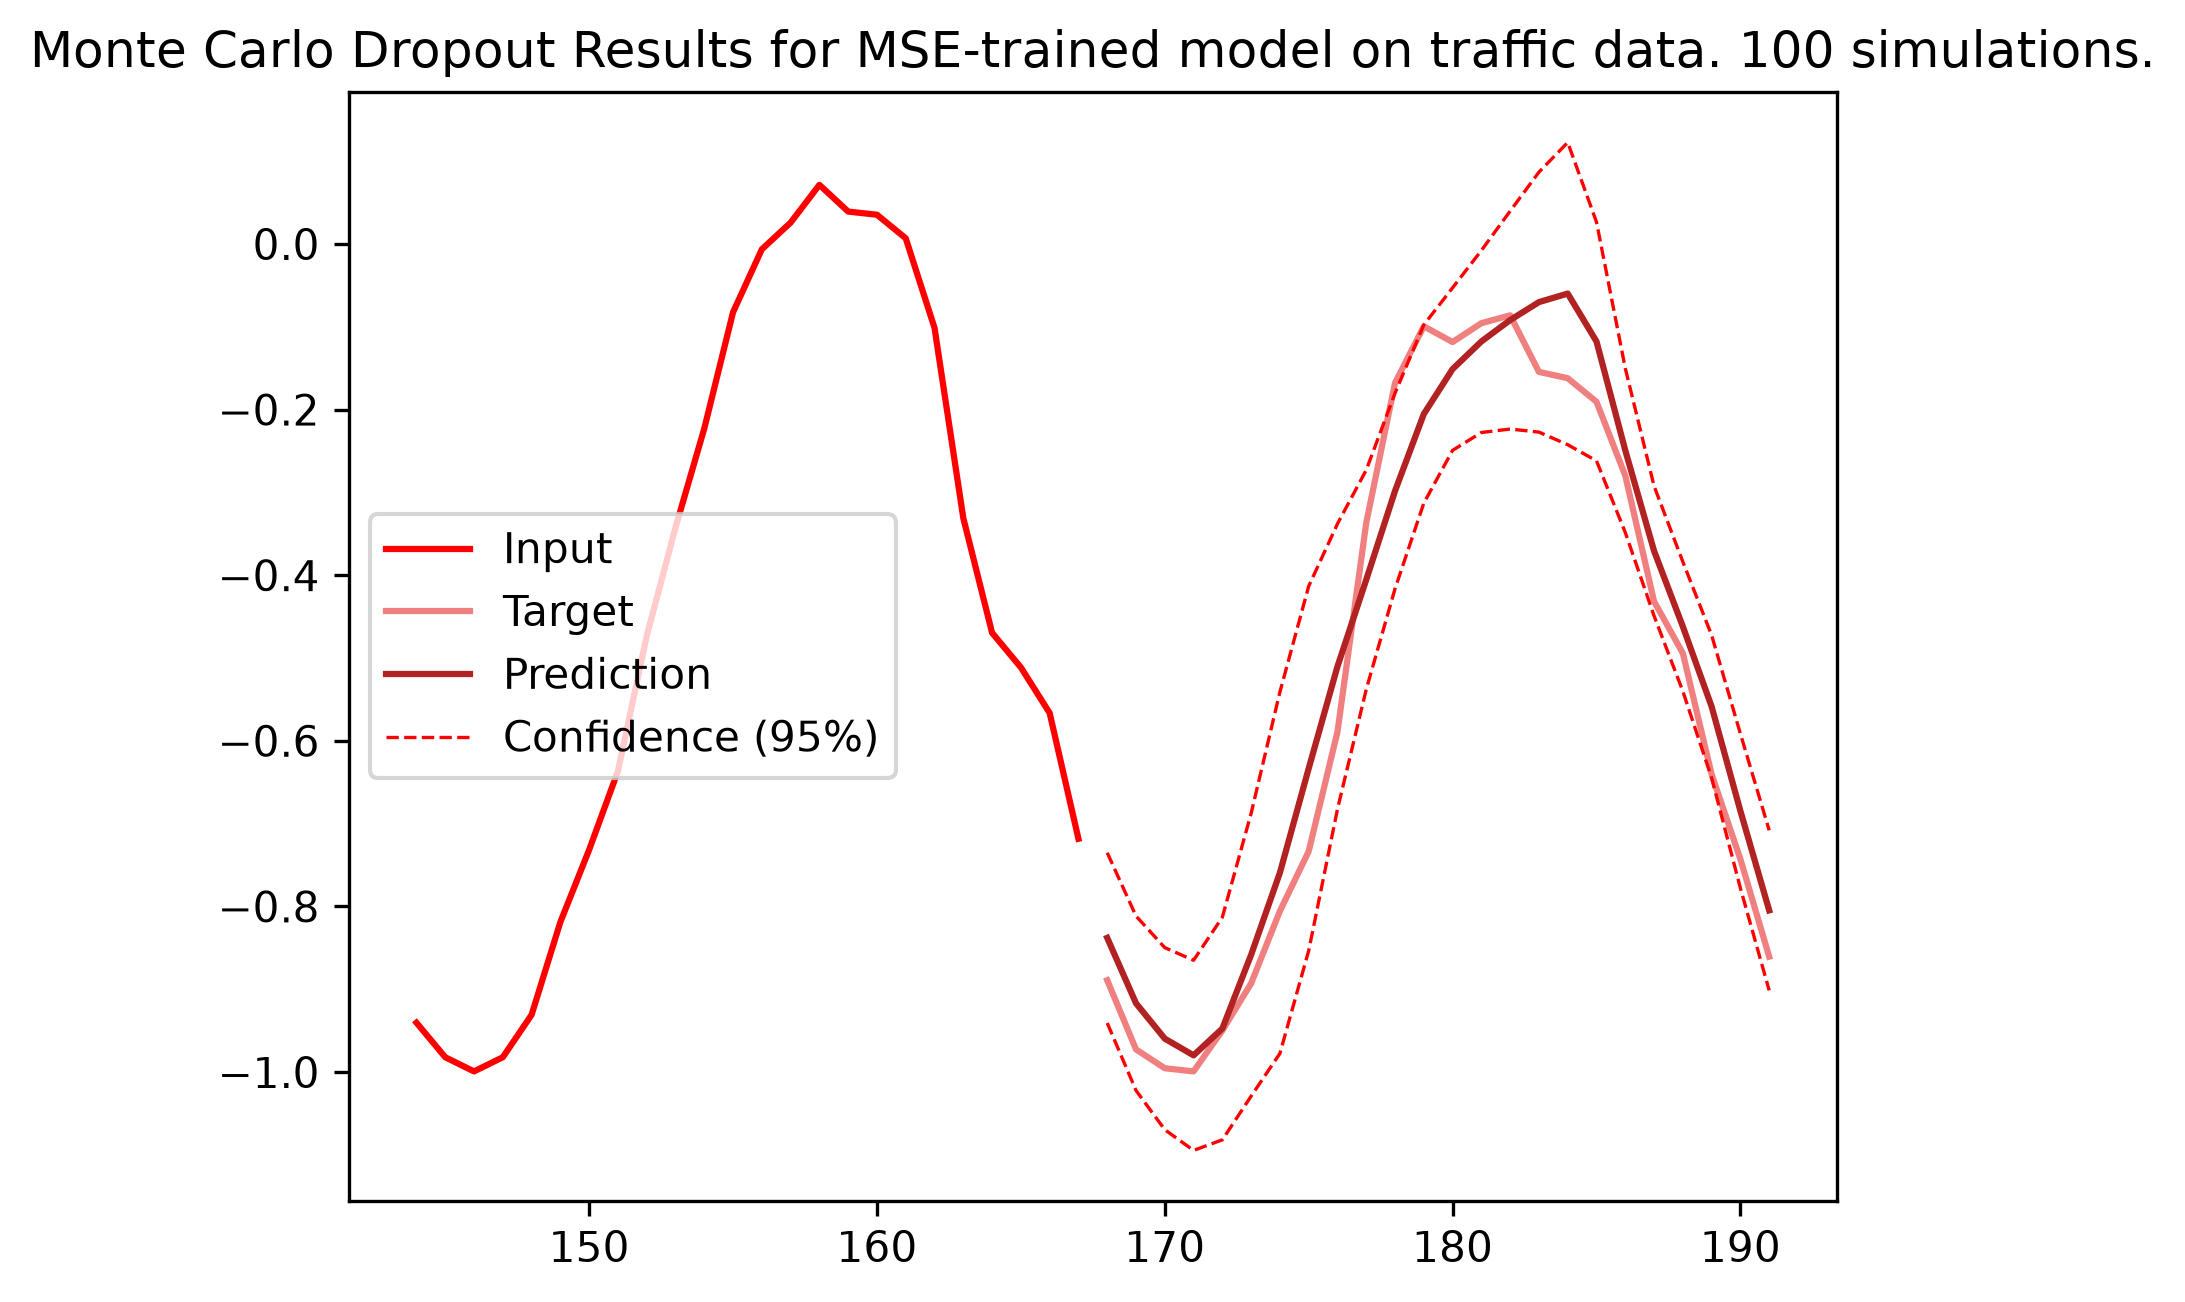
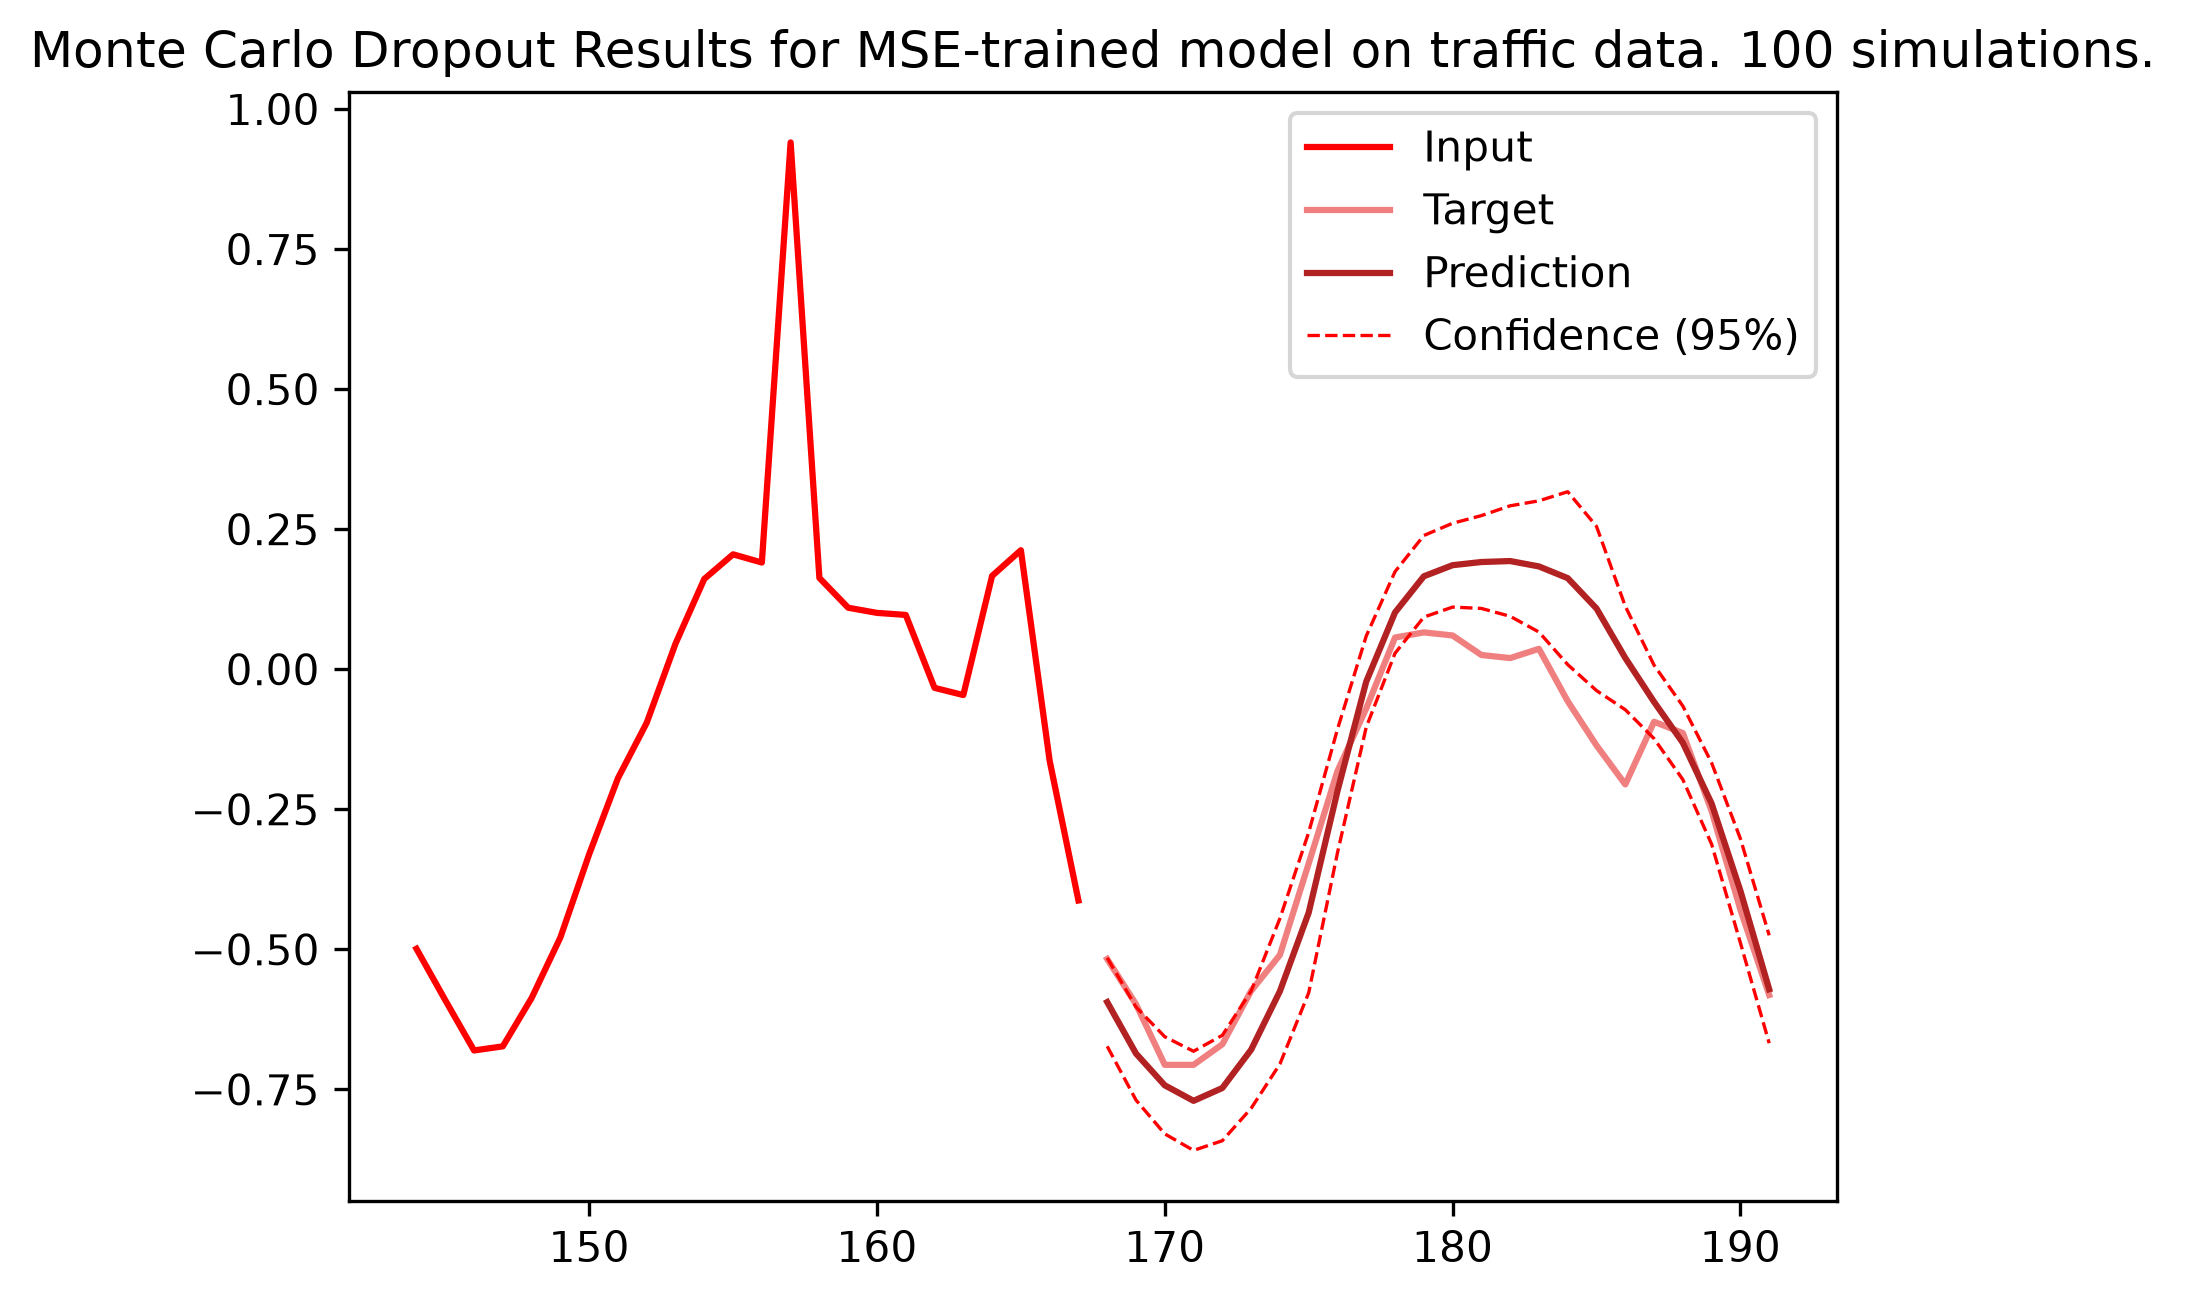
Ignore les donnees de trafic locales

diff --git a/demo.py b/demo.py
@@ -36,12 +36,12 @@ random.seed(0)
 
 #load data
 trafic = Traffic("./data")
-donnees_trafic = trafic.data[:-24*3,0:200].astype(np.float32) #découpage par tranches de 8 jours pendant deux ans, il fallait supprimer trois jours
+donnees_trafic = trafic.data[:-24*3,0:100].astype(np.float32) #découpage par tranches de 8 jours pendant deux ans, il fallait supprimer trois jours
 donnees_trafic_rangees = donnees_trafic.transpose().flatten()
 
 scaler_traffic, trafic_train, trafic_test, trafic_val = prepare_univariate_data(
                         series_data = donnees_trafic_rangees, nav = N_input, nap = N_output,
-                        train_size=5460*2, test_size = 1820*2, val_size = 1820*2,
+                        train_size=5460, test_size = 1820, val_size = 1820,
                         create_val_loader=True, batch_size=182, num_workers=4)
 
 encoder2 = FusionBayesianEncoderRNN(input_size=1, hidden_size=128, num_grulstm_layers=1, batch_size=182).to(device)
